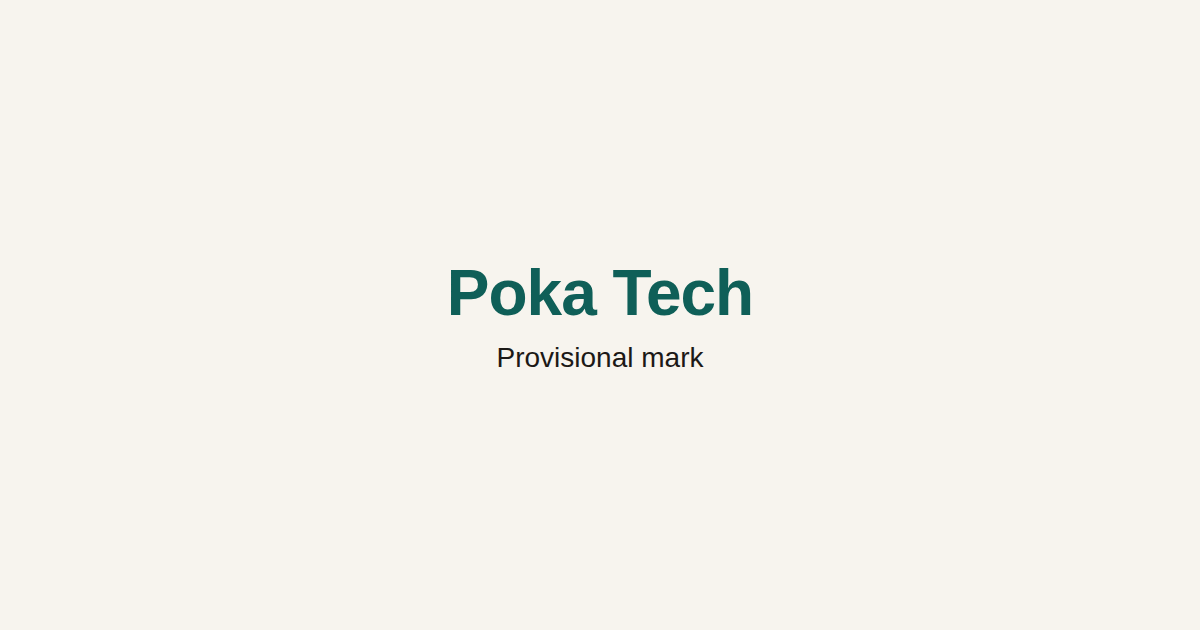
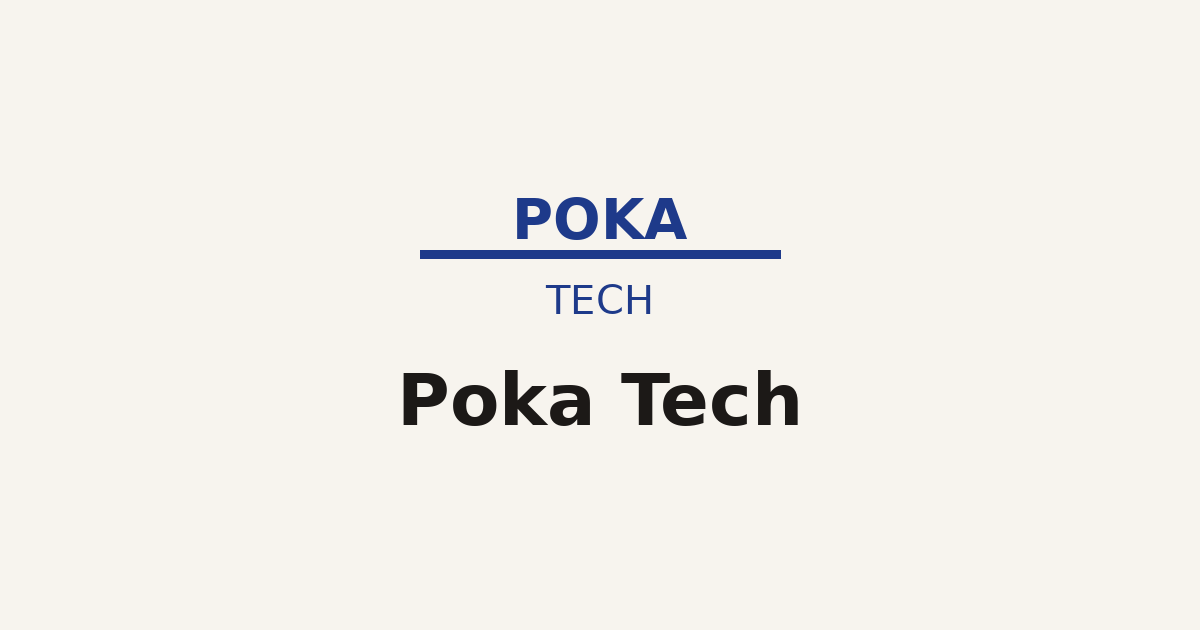
Set concept-2 and theme-2 indigo as the final brand defaults.
Update favicon and Open Graph assets, README, and tests to match.

Changed region(s): [[0.3392, 0.3016, 0.6475, 0.5127], [0.3083, 0.5429, 0.6783, 0.6937]]

diff --git a/config/portfolio.php b/config/portfolio.php
@@ -6,7 +6,7 @@
 |
 | theme: theme-1 | theme-2 | theme-3   (one switch for the accent)
 | logo:  concept-1 | concept-2 | concept-3
-| Both are provisional. See the README.
+| Default brand: concept-2 + theme-2 (indigo). See the README.
 |
 | Do not add prices, testimonials, client logos, or result metrics.
 | WhatsApp and the contact mailbox come from the environment.
@@ -42,9 +42,9 @@ return [
 
     'locales' => ['en', 'ar'],
 
-    // Provisional until the owner picks. One value switches the accent.
-    'theme' => env('PORTFOLIO_THEME', 'theme-1'),
-    'logo' => env('PORTFOLIO_LOGO', 'concept-1'),
+    // Default accent theme (indigo). One value switches the accent.
+    'theme' => env('PORTFOLIO_THEME', 'theme-2'),
+    'logo' => env('PORTFOLIO_LOGO', 'concept-2'),
 
     'themes' => [
         'theme-1' => ['label' => 'Teal', 'accent' => '#0F5F58'],

diff --git a/tests/Feature/SiteTest.php b/tests/Feature/SiteTest.php
@@ -22,7 +22,8 @@ class SiteTest extends TestCase
         $response->assertOk();
         $response->assertSee('lang="en"', false);
         $response->assertSee('dir="ltr"', false);
-        $response->assertSee('data-theme="theme-1"', false);
+        $response->assertSee('data-theme="theme-2"', false);
+        $response->assertSee('brand/concept-2.svg', false);
         $response->assertSee('Laravel and Livewire products for Saudi and Gulf businesses.', false);
         $response->assertSee('See work', false);
         $response->assertSee('Get a quote', false);

diff --git a/tests/TestCase.php b/tests/TestCase.php
@@ -17,8 +17,8 @@ abstract class TestCase extends BaseTestCase
             'app.url' => 'https://poka-tech.duckdns.org',
             'portfolio.contact.whatsapp' => '8801785636359',
             'portfolio.contact.email' => 'ashique19@gmail.com',
-            'portfolio.theme' => 'theme-1',
-            'portfolio.logo' => 'concept-1',
+            'portfolio.theme' => 'theme-2',
+            'portfolio.logo' => 'concept-2',
         ]);
 
         URL::forceRootUrl('https://poka-tech.duckdns.org');

diff --git a/app/Support/Portfolio.php b/app/Support/Portfolio.php
@@ -253,7 +253,7 @@ class Portfolio
             'theme',
             'preview_theme',
             array_keys(config('portfolio.themes', [])),
-            'theme-1',
+            'theme-2',
         );
     }
 
@@ -263,7 +263,7 @@ class Portfolio
             'logo',
             'preview_logo',
             config('portfolio.logos', []),
-            'concept-1',
+            'concept-2',
         );
     }
 

diff --git a/README.md b/README.md
@@ -2,7 +2,7 @@
 
 Studio site for [Poka Tech](https://poka-tech.duckdns.org), Ashiqul Islam’s product studio. The current web work is Laravel and Livewire, in English and Arabic, for businesses in Saudi Arabia and the Gulf.
 
-The visual identity is **provisional**. Logo concept 1 and theme 1 are the defaults. Change one config value when a direction is chosen (see below).
+The brand choice is **final**: logo **concept 2** (POKA bar wordmark) and **theme 2** (indigo `#1E3A8A`). Concepts 1 and 3 and themes 1 and 3 stay in the repo for reference but are not the defaults.
 
 ## Local setup
 
@@ -42,8 +42,8 @@ The header switches language and keeps the query string, so a prefilled contact 
 
 `config/portfolio.php` is the content file:
 
-- `theme` — `theme-1` (teal `#0F5F58`), `theme-2` (indigo `#1E3A8A`), or `theme-3` (clay `#7C2D12`). This one value changes the accent. Neutrals stay the same. The token is `--color-accent` in `resources/css/app.css`.
-- `logo` — `concept-1`, `concept-2`, or `concept-3`. SVG files are in `public/brand/`.
+- `theme` — default `theme-2` (indigo `#1E3A8A`). Alternatives: `theme-1` (teal), `theme-3` (clay). One value changes the accent; the token is `--color-accent` in `resources/css/app.css`.
+- `logo` — default `concept-2`. Alternatives: `concept-1`, `concept-3`. SVG files are in `public/brand/`.
 - `case_studies` — problem, what was built, stack, notes, optional `demo_url`, screenshot list.
 - `samples` — representative mockup categories. They are not client projects.
 - `contact.whatsapp` and `contact.email` come from `WHATSAPP_NUMBER` and `CONTACT_EMAIL`.
@@ -80,10 +80,11 @@ Livewire form: name, email, optional company, message. A honeypot field and a li
 
 | File | What it is |
 | --- | --- |
-| `public/brand/concept-1.svg` | Monogram P plus wordmark (default) |
-| `public/brand/concept-2.svg` | Wordmark with a bar under POKA |
-| `public/brand/concept-3.svg` | Circular PT monogram plus wordmark |
-| `public/favicon.svg` | Provisional tab icon, same P as concept 1 |
+| `public/brand/concept-1.svg` | Monogram P plus wordmark (alternate) |
+| `public/brand/concept-2.svg` | Wordmark with a bar under POKA (**default**) |
+| `public/brand/concept-3.svg` | Circular PT monogram plus wordmark (alternate) |
+| `public/favicon.svg` | Tab icon in indigo, concept 2 mark |
+| `public/images/og.png` | Open Graph image, indigo accent, concept 2 |
 
 The Latin wordmark is drawn left-to-right inside the SVG so Arabic pages do not reorder the letters. `currentColor` follows the accent theme.
 
